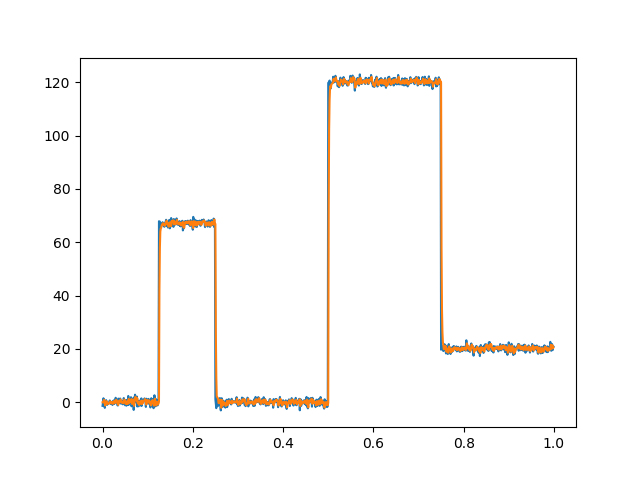
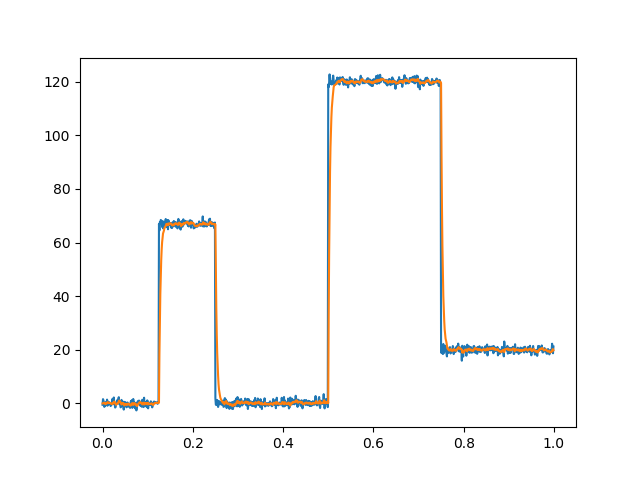
Added ble code

diff --git a/ble/blescan.py b/ble/blescan.py
@@ -1,0 +1,179 @@
+# BLE iBeaconScanner based on https://github.com/adamf/BLE/blob/master/ble-scanner.py
+# JCS 06/07/14
+
+DEBUG = False
+# BLE scanner based on https://github.com/adamf/BLE/blob/master/ble-scanner.py
+# BLE scanner, based on https://code.google.com/p/pybluez/source/browse/trunk/examples/advanced/inquiry-with-rssi.py
+
+# https://github.com/pauloborges/bluez/blob/master/tools/hcitool.c for lescan
+# https://kernel.googlesource.com/pub/scm/bluetooth/bluez/+/5.6/lib/hci.h for opcodes
+# https://github.com/pauloborges/bluez/blob/master/lib/hci.c#L2782 for functions used by lescan
+
+# performs a simple device inquiry, and returns a list of ble advertizements 
+# discovered device
+
+# NOTE: Python's struct.pack() will add padding bytes unless you make the endianness explicit. Little endian
+# should be used for BLE. Always start a struct.pack() format string with "<"
+
+import os
+import sys
+import struct
+import bluetooth._bluetooth as bluez
+
+LE_META_EVENT = 0x3e
+LE_PUBLIC_ADDRESS=0x00
+LE_RANDOM_ADDRESS=0x01
+LE_SET_SCAN_PARAMETERS_CP_SIZE=7
+OGF_LE_CTL=0x08
+OCF_LE_SET_SCAN_PARAMETERS=0x000B
+OCF_LE_SET_SCAN_ENABLE=0x000C
+OCF_LE_CREATE_CONN=0x000D
+
+LE_ROLE_MASTER = 0x00
+LE_ROLE_SLAVE = 0x01
+
+# these are actually subevents of LE_META_EVENT
+EVT_LE_CONN_COMPLETE=0x01
+EVT_LE_ADVERTISING_REPORT=0x02
+EVT_LE_CONN_UPDATE_COMPLETE=0x03
+EVT_LE_READ_REMOTE_USED_FEATURES_COMPLETE=0x04
+
+# Advertisment event types
+ADV_IND=0x00
+ADV_DIRECT_IND=0x01
+ADV_SCAN_IND=0x02
+ADV_NONCONN_IND=0x03
+ADV_SCAN_RSP=0x04
+
+
+def returnnumberpacket(pkt):
+    myInteger = 0
+    multiple = 256
+    for c in pkt:
+        myInteger +=  struct.unpack("B",c)[0] * multiple
+        multiple = 1
+    return myInteger 
+
+def returnstringpacket(pkt):
+    myString = "";
+    for c in pkt:
+        myString +=  "%02x" %struct.unpack("B",c)[0]
+    return myString 
+
+def printpacket(pkt):
+    for c in pkt:
+        sys.stdout.write("%02x " % struct.unpack("B",c)[0])
+
+def get_packed_bdaddr(bdaddr_string):
+    packable_addr = []
+    addr = bdaddr_string.split(':')
+    addr.reverse()
+    for b in addr: 
+        packable_addr.append(int(b, 16))
+    return struct.pack("<BBBBBB", *packable_addr)
+
+def packed_bdaddr_to_string(bdaddr_packed):
+    return ':'.join('%02x'%i for i in struct.unpack("<BBBBBB", bdaddr_packed[::-1]))
+
+def hci_enable_le_scan(sock):
+    hci_toggle_le_scan(sock, 0x01)
+
+def hci_disable_le_scan(sock):
+    hci_toggle_le_scan(sock, 0x00)
+
+def hci_toggle_le_scan(sock, enable):
+# hci_le_set_scan_enable(dd, 0x01, filter_dup, 1000);
+# memset(&scan_cp, 0, sizeof(scan_cp));
+ #uint8_t         enable;
+ #       uint8_t         filter_dup;
+#        scan_cp.enable = enable;
+#        scan_cp.filter_dup = filter_dup;
+#
+#        memset(&rq, 0, sizeof(rq));
+#        rq.ogf = OGF_LE_CTL;
+#        rq.ocf = OCF_LE_SET_SCAN_ENABLE;
+#        rq.cparam = &scan_cp;
+#        rq.clen = LE_SET_SCAN_ENABLE_CP_SIZE;
+#        rq.rparam = &status;
+#        rq.rlen = 1;
+
+#        if (hci_send_req(dd, &rq, to) < 0)
+#                return -1;
+    cmd_pkt = struct.pack("<BB", enable, 0x00)
+    bluez.hci_send_cmd(sock, OGF_LE_CTL, OCF_LE_SET_SCAN_ENABLE, cmd_pkt)
+
+
+def hci_le_set_scan_parameters(sock):
+    old_filter = sock.getsockopt( bluez.SOL_HCI, bluez.HCI_FILTER, 14)
+
+    SCAN_RANDOM = 0x01
+    OWN_TYPE = SCAN_RANDOM
+    SCAN_TYPE = 0x01
+
+
+    
+def parse_events(sock, loop_count=100):
+    old_filter = sock.getsockopt( bluez.SOL_HCI, bluez.HCI_FILTER, 14)
+
+    # perform a device inquiry on bluetooth device #0
+    # The inquiry should last 8 * 1.28 = 10.24 seconds
+    # before the inquiry is performed, bluez should flush its cache of
+    # previously discovered devices
+    flt = bluez.hci_filter_new()
+    bluez.hci_filter_all_events(flt)
+    bluez.hci_filter_set_ptype(flt, bluez.HCI_EVENT_PKT)
+    sock.setsockopt( bluez.SOL_HCI, bluez.HCI_FILTER, flt )
+    done = False
+    results = []
+    myFullList = []
+    for i in range(0, loop_count):
+        pkt = sock.recv(255)
+        ptype, event, plen = struct.unpack("BBB", pkt[:3])
+        #print "--------------" 
+        if event == bluez.EVT_INQUIRY_RESULT_WITH_RSSI:
+            i =0
+        elif event == bluez.EVT_NUM_COMP_PKTS:
+            i =0 
+        elif event == bluez.EVT_DISCONN_COMPLETE:
+            i =0 
+        elif event == LE_META_EVENT:
+            subevent, = struct.unpack("B", pkt[3])
+            pkt = pkt[4:]
+            if subevent == EVT_LE_CONN_COMPLETE:
+                le_handle_connection_complete(pkt)
+            elif subevent == EVT_LE_ADVERTISING_REPORT:
+                #print "advertising report"
+                num_reports = struct.unpack("B", pkt[0])[0]
+                report_pkt_offset = 0
+                for i in range(0, num_reports):
+                    if (DEBUG == True):
+                        print("-------------")
+                        #print "\tfullpacket: ", printpacket(pkt)
+                        print("\tUDID: ", printpacket(pkt[report_pkt_offset -22: report_pkt_offset - 6]))
+                        print("\tMAJOR: ", printpacket(pkt[report_pkt_offset -6: report_pkt_offset - 4]))
+                        print("\tMINOR: ", printpacket(pkt[report_pkt_offset -4: report_pkt_offset - 2]))
+                        print("\tMAC address: ", packed_bdaddr_to_string(pkt[report_pkt_offset + 3:report_pkt_offset + 9]))
+                        # commented out - don't know what this byte is.  It's NOT TXPower
+                        txpower, = struct.unpack("b", pkt[report_pkt_offset -2])
+                        print("\t(Unknown):", txpower)
+                        
+                        rssi, = struct.unpack("b", pkt[report_pkt_offset -1])
+                        print("\tRSSI:", rssi)
+                    # build the return string
+                    Adstring = packed_bdaddr_to_string(pkt[report_pkt_offset + 3:report_pkt_offset + 9])
+                    Adstring += ","
+                    Adstring += returnstringpacket(pkt[report_pkt_offset -22: report_pkt_offset - 6]) 
+                    Adstring += ","
+                    Adstring += "%i" % returnnumberpacket(pkt[report_pkt_offset -6: report_pkt_offset - 4]) 
+                    Adstring += ","
+                    Adstring += "%i" % returnnumberpacket(pkt[report_pkt_offset -4: report_pkt_offset - 2]) 
+                    Adstring += ","
+                    Adstring += "%i" % struct.unpack("b", pkt[report_pkt_offset -2])
+                    Adstring += ","
+                    Adstring += "%i" % struct.unpack("b", pkt[report_pkt_offset -1])
+
+                    #print "\tAdstring=", Adstring
+                    myFullList.append(Adstring)
+                done = True
+    sock.setsockopt( bluez.SOL_HCI, bluez.HCI_FILTER, old_filter )
+    return myFullList

diff --git a/main.py b/main.py
@@ -6,6 +6,7 @@ from math import sqrt
 import matplotlib.pyplot as plt
 
 from filters.kalman import KalmanFilter1D
+from ble.ble_utils import getRSSIandTX
 
 if __name__ == "__main__":
     T = 1e-3
@@ -14,7 +15,7 @@ if __name__ == "__main__":
     B = 0
     C = 1
     Q = 1e-3
-    R = 1e-3
+    R = 1e-2
 
     X = [0]*len(t)
     Z = randn(len(t))
@@ -37,11 +38,15 @@ if __name__ == "__main__":
     A_KF = 1
 
     kf = KalmanFilter1D()
-    for k in range(1, len(t)-1):
-        if X[k] == None:
-            X_KF[k+1] = Z[k]*(1/C)
-        else:
-            X_KF[k+1], P_KF[k+1] = kf.filter(X_KF[k], Z[k], U[k], P_KF[k], A_KF, B, C, Q, R)
+    
+    for k in range(10):
+        getRSSIandTX(10)
+
+    #for k in range(1, len(t)-1):
+        #if X[k] == None:
+        #    X_KF[k+1] = Z[k]*(1/C)
+        #else:
+        #    X_KF[k+1], P_KF[k+1] = kf.filter(X_KF[k], Z[k], U[k], P_KF[k], A_KF, B, C, Q, R)
 
     plt.plot(t, Z[:])
     plt.plot(t, X_KF[:])

diff --git a/ble/ble_utils.py b/ble/ble_utils.py
@@ -1,0 +1,27 @@
+from .blescan import hci_le_set_scan_parameters, hci_enable_le_scan, parse_events
+import sys
+import bluetooth._bluetooth as bluez
+
+# Obtain the RSSI and TX values of each packet
+def getRSSIandTX(iterations):
+    # Value containers
+    values = {}
+
+    # Open BLE socket
+    try:
+        sock = bluez.hci_open_dev(0)
+        print("Start BLE communication")
+
+    except:
+        print("error accessing bluetooth device...")
+        sys.exit(1)
+
+    hci_le_set_scan_parameters(sock)
+    hci_enable_le_scan(sock)
+
+    # Loop to scan the beacons
+    for x in range(iterations):
+        returnedList = parse_events(sock, 10)
+        for beacon in returnedList:
+            details = beacon.split(',')
+            print(details)

diff --git a/testble.py b/testble.py
@@ -1,0 +1,4 @@
+from bluetooth.ble import *
+
+
+print(discover_devices())
